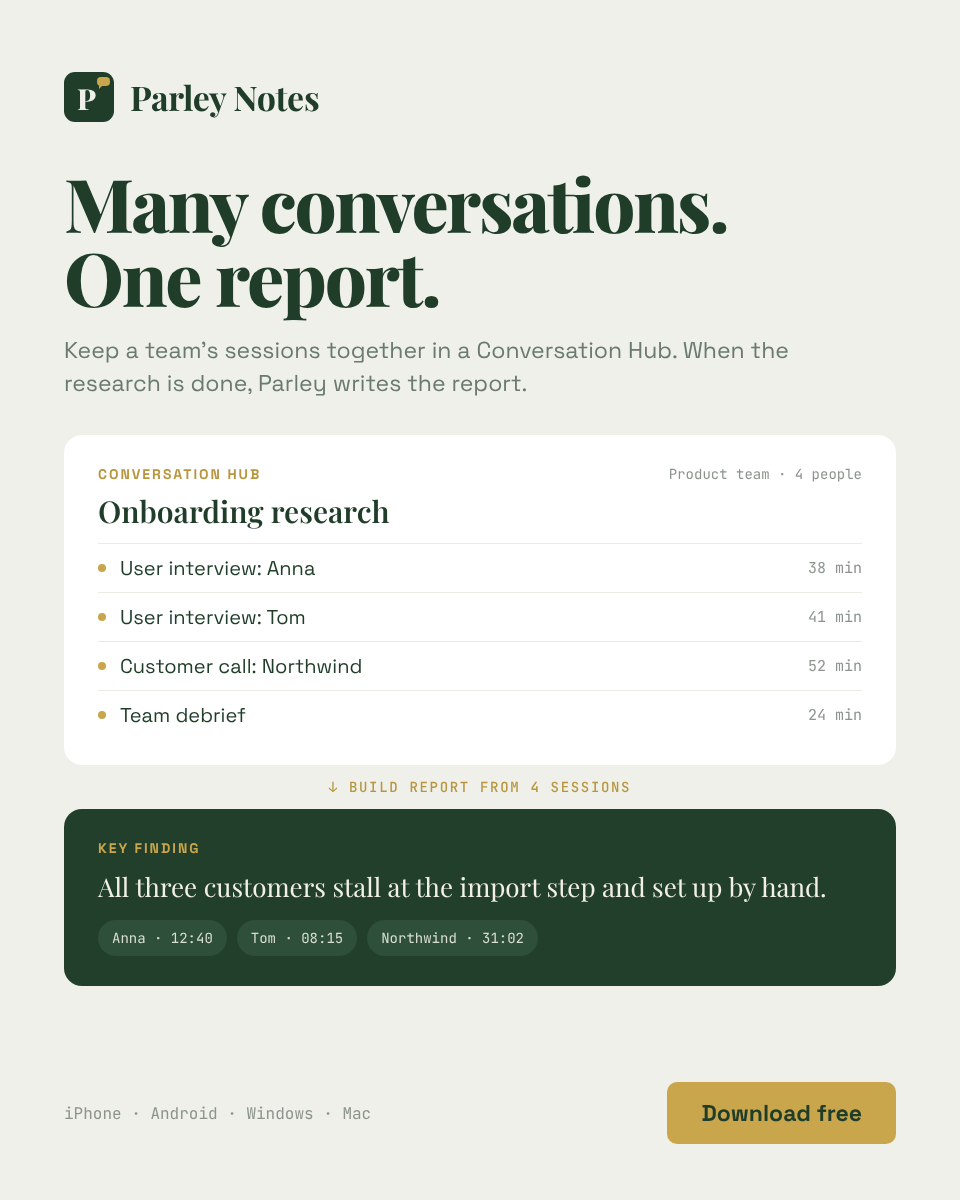
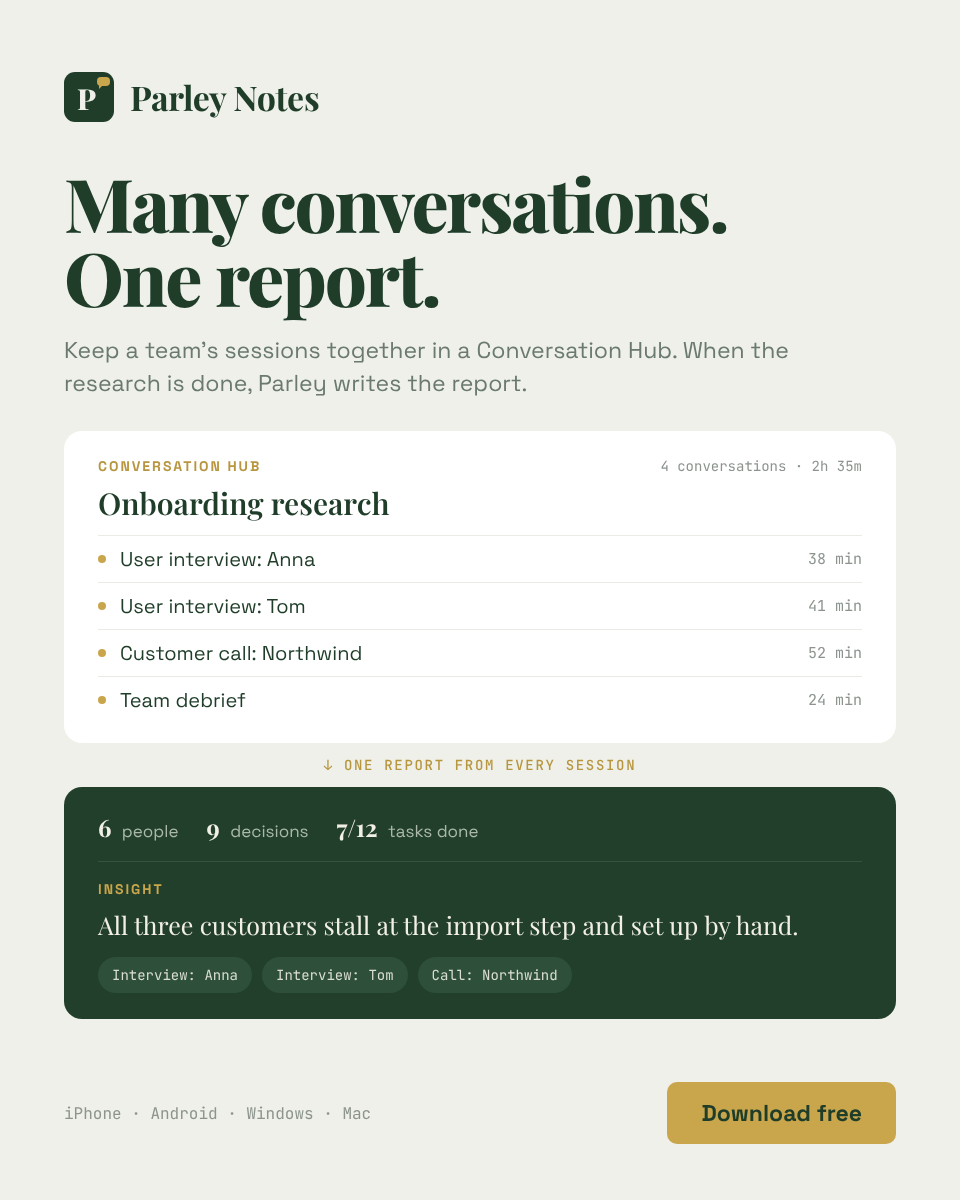
Match Conversation Hub ad to the real folder synthesis output
Report card now shows what Folder AI Synthesis computes (people,
decisions, action-item progress) and cites insights by source meeting
rather than timestamps.

Claude-Session: https://claude.ai/code/session_015m66gxzJksktda7aom9jNP

diff --git a/marketing/reddit-ads/src/hub.html b/marketing/reddit-ads/src/hub.html
@@ -3,17 +3,18 @@ body{width:960px;height:1200px;background:var(--cream);color:var(--ink);padding:
 .brand{font-size:34px}.logo{width:50px;height:50px;font-size:29px}
 h1{font-family:'Playfair Display',serif;font-weight:800;font-size:74px;line-height:1;letter-spacing:-.03em;margin-top:44px}
 .sub{font-size:23px;line-height:1.45;color:var(--muted);margin-top:20px;max-width:800px}
-.hub{background:var(--paper);border-radius:18px;margin-top:34px;padding:30px 34px 26px}
+.hub{background:var(--paper);border-radius:18px;margin-top:30px;padding:26px 34px 20px}
 .hh{display:flex;justify-content:space-between;align-items:baseline}
 .hh .label{font-size:14px}.team{font-family:'JetBrains Mono',monospace;font-size:14px;color:#8c948d}
 .ht{font-family:'Playfair Display',serif;font-size:30px;font-weight:600;margin:8px 0 12px}
-.s{display:flex;justify-content:space-between;align-items:center;font-size:20px;padding:11px 0;border-top:1px solid #e9ebe5}
+.s{display:flex;justify-content:space-between;align-items:center;font-size:20px;padding:10px 0;border-top:1px solid #e9ebe5}
 .s span:first-child{display:flex;align-items:center;gap:14px}.s span:first-child:before{content:"";width:8px;height:8px;border-radius:50%;background:var(--gold)}
 .s span:last-child{font-family:'JetBrains Mono',monospace;font-size:15px;color:#8c948d}
 .arrow{text-align:center;font-family:'JetBrains Mono',monospace;font-size:14px;letter-spacing:.12em;color:var(--goldtext);font-weight:500;margin:13px 0}
-.report{background:var(--green);color:#f1efe6;border-radius:18px;padding:30px 34px}
+.report{background:var(--green);color:#f1efe6;border-radius:18px;padding:24px 34px 26px}
 .report .label{font-size:14px;color:var(--gold)}
-.f{font-family:'Playfair Display',serif;font-size:26px;line-height:1.35;margin-top:12px}
+.stats{display:flex;gap:28px;font-size:17px;color:#a9b8ab;padding-bottom:18px;margin-bottom:18px;border-bottom:1px solid rgba(255,255,255,.1)}.stats b{font-family:'Playfair Display',serif;font-size:24px;color:#f1efe6;margin-right:6px}
+.f{font-family:'Playfair Display',serif;font-size:25px;line-height:1.35;margin-top:10px}
 .chips{display:flex;gap:10px;margin-top:16px}.chips span{font-family:'JetBrains Mono',monospace;font-size:14px;background:#2e4f39;padding:9px 14px;border-radius:999px;color:#d9ddd2}
 .bottom{position:absolute;left:64px;right:64px;bottom:56px;display:flex;justify-content:space-between;align-items:center}
 .meta{font-family:'JetBrains Mono',monospace;font-size:16px;color:#8c948d}
@@ -22,15 +23,15 @@ h1{font-family:'Playfair Display',serif;font-weight:800;font-size:74px;line-heig
 <div class="brand"><div class="logo">P<i></i></div>Parley Notes</div>
 <h1>Many conversations.<br>One report.</h1>
 <p class="sub">Keep a team’s sessions together in a Conversation Hub. When the research is done, Parley writes the report.</p>
-<div class="hub"><div class="hh"><div class="label">Conversation Hub</div><div class="team">Product team · 4 people</div></div>
+<div class="hub"><div class="hh"><div class="label">Conversation Hub</div><div class="team">4 conversations · 2h 35m</div></div>
 <div class="ht">Onboarding research</div>
 <div class="s"><span>User interview: Anna</span><span>38 min</span></div>
 <div class="s"><span>User interview: Tom</span><span>41 min</span></div>
 <div class="s"><span>Customer call: Northwind</span><span>52 min</span></div>
 <div class="s"><span>Team debrief</span><span>24 min</span></div></div>
-<div class="arrow">↓ BUILD REPORT FROM 4 SESSIONS</div>
-<div class="report"><div class="label">Key finding</div>
+<div class="arrow">↓ ONE REPORT FROM EVERY SESSION</div>
+<div class="report"><div class="stats"><span><b>6</b> people</span><span><b>9</b> decisions</span><span><b>7/12</b> tasks done</span></div><div class="label">Insight</div>
 <div class="f">All three customers stall at the import step and set up by hand.</div>
-<div class="chips"><span>Anna · 12:40</span><span>Tom · 08:15</span><span>Northwind · 31:02</span></div></div>
+<div class="chips"><span>Interview: Anna</span><span>Interview: Tom</span><span>Call: Northwind</span></div></div>
 <div class="bottom"><div class="meta">iPhone · Android · Windows · Mac</div><div class="btn">Download free</div></div>
 </body></html>
